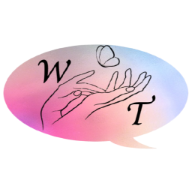
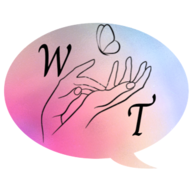
feito  a cor da Navbar

Changed region(s): [[0.0, 0.0938, 1.0, 0.9062], [0.0, 0.4688, 0.0312, 0.5312]]

diff --git a/front-end/wt-project/src/components/statics/navbar/Navbar.tsx b/front-end/wt-project/src/components/statics/navbar/Navbar.tsx
@@ -35,11 +35,11 @@ function Navbar() {
     return (
         <>
             <AppBar position="static">
-                <Toolbar variant="dense">
+                <Toolbar className="background-color">
                     <Box style={{ cursor: "pointer" }} >
-                        <Typography variant="h5" color="inherit">
-                            Women's Tales
-                        </Typography>
+                        <Link to={"/home"}>
+                            <img src='https://i.imgur.com/xALHdrz.png' alt="logo" className='size'></img>
+                        </Link>
                     </Box>
                     <Box display="flex" justifyContent="space-between">
                         <Box>
@@ -47,7 +47,7 @@ function Navbar() {
                                 <Link to={"/home"} className="text-decorator-none cursor">
                                     <Box mx={1}>
                                         <Typography variant="h6" color="inherit">
-                                            Home
+                                        Women's Tales
                                         </Typography>
                                     </Box>
                                 </Link>
@@ -58,7 +58,7 @@ function Navbar() {
                                         </Typography>
                                     </Box>
                                 </Link>
-                                <Link to={"/contato"} className="text-decorator-none cursor">
+                                <Link to={"/contato"} className="text-decorator-none cursor" >
                                     <Box mx={1}>
                                         <Typography variant="h6" color="inherit">
                                             Contato

diff --git a/front-end/wt-project/src/pages/login/Login.css b/front-end/wt-project/src/pages/login/Login.css
@@ -3,7 +3,7 @@
 }
 
 .bgImageLogin{
-    background-image: url(https://i.imgur.com/EgC9dTR.jpg?1);
+    background-image: url(https://i.imgur.com/xALHdrz.png);
     background-repeat: no-repeat; 
     width: 100vh; 
     min-height: 100vh;
@@ -16,5 +16,6 @@
 }
 
 .backgroundColor{
-    background-color: #FFD700 !important;
+    background-color: #c87286 !important;
 }
+

diff --git a/front-end/wt-project/src/components/statics/navbar/Navbar.css b/front-end/wt-project/src/components/statics/navbar/Navbar.css
@@ -6,5 +6,19 @@
 
 .cursor{
     cursor: pointer;
-    color: white;
+    color: black;
+}
+
+.background-color{
+    background-color: #c87286;
+
+}
+
+.bgImage{
+    background-image: url(https://i.imgur.com/ZIZxZ2S.jpg);
+}
+
+.size{
+    width: 70px;
+    height: 70px;
 }

diff --git a/front-end/wt-project/public/index.html b/front-end/wt-project/public/index.html
@@ -8,6 +8,7 @@
   <link rel="icon" type="image/png" sizes="16x16" href="/favicon-16x16.png">
   <link rel="manifest" href="/site.webmanifest">
   <title>Women's Tales</title>
+
 </head>
 
 <body>
